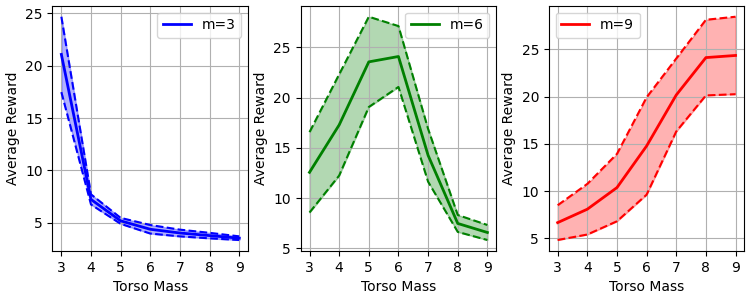
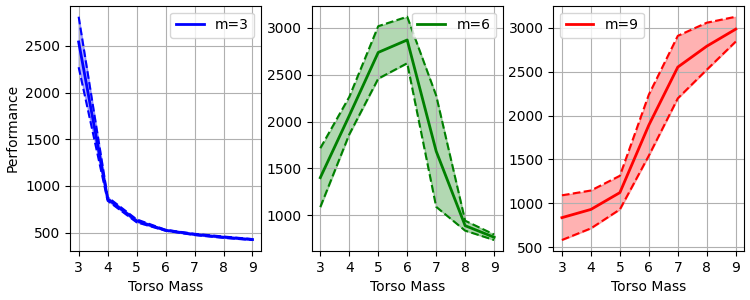
new plots p1

diff --git a/p1_test.py b/p1_test.py
@@ -2,14 +2,10 @@ import gymnasium as gym
 from stable_baselines3 import PPO
 import matplotlib.pyplot as plt
 import numpy as np
-import gymnasium as gym
-from stable_baselines3.common.vec_env import SubprocVecEnv, VecNormalize
+from stable_baselines3.common.vec_env import VecNormalize
 from stable_baselines3.common.env_util import make_vec_env
-from stable_baselines3 import PPO
+from stable_baselines3.common.evaluation import evaluate_policy
 from scipy.stats import sem
-from stable_baselines3.common.logger import configure
-from typing import Callable
-import torch
 
 # Define seeds and masses used for training and testing
 seeds = [1, 2, 3, 4, 5]
@@ -30,17 +26,8 @@ class ChangeMassWrapper(gym.Wrapper):
         self.update_mass()
 
 def evaluate_model(model, env, num_episodes=10):
-    rewards = []
-    for _ in range(num_episodes):
-        obs = env.reset()
-        done = False
-        total_reward = 0
-        while not done:
-            action, _states = model.predict(obs, deterministic=True)
-            obs, reward, done, info = env.step(action)
-            total_reward += reward
-        rewards.append(total_reward)
-    return np.mean(rewards)
+    mean_reward, std_reward = evaluate_policy(model, env, n_eval_episodes=num_episodes, return_episode_rewards=False)
+    return mean_reward, std_reward
 
 def test_models(seeds, masses, test_masses):
     results = {}
@@ -56,9 +43,9 @@ def test_models(seeds, masses, test_masses):
             model_results = []
             for test_mass in test_masses:
                 env.env_method("set_mass", test_mass)
-                avg_reward = evaluate_model(model, env)
-                model_results.append(avg_reward)
-                print(f"Seed {seed}, Train Mass {mass}, Test Mass {test_mass}: Avg Reward = {avg_reward}")
+                mean_reward, std_reward = evaluate_model(model, env)
+                model_results.append((mean_reward, std_reward))
+                print(f"Seed {seed}, Train Mass {mass}, Test Mass {test_mass}: Mean Reward = {mean_reward}, Std Reward = {std_reward}")
 
             results[(seed, mass)] = model_results
 
@@ -67,7 +54,7 @@ def test_models(seeds, masses, test_masses):
 # Test the models
 results = test_models(seeds, training_masses, test_masses)
 
-# save the results
+# Save the results
 np.save("ppo_hopper_results.npy", results)
 
 def plot_results(results, test_masses, training_masses):
@@ -88,14 +75,15 @@ def plot_results(results, test_masses, training_masses):
         
         # Calculate mean and confidence interval for each test mass
         for test_mass in test_masses:
-            all_rewards = [rewards[test_masses.index(test_mass)] for _, rewards in mass_results.items()]
+            all_rewards = [rewards[test_masses.index(test_mass)][0] for _, rewards in mass_results.items()]
+            all_stds = [rewards[test_masses.index(test_mass)][1] for _, rewards in mass_results.items()]
             mean_rewards = np.mean(all_rewards)
-            error = sem(all_rewards)
+            mean_std = np.mean(all_stds)
             
             # Collect the data
             mean_values.append(mean_rewards)
-            upper_bounds.append(mean_rewards + error)
-            lower_bounds.append(mean_rewards - error)
+            upper_bounds.append(mean_rewards + mean_std)
+            lower_bounds.append(mean_rewards - mean_std)
         
         # Plotting the mean, upper, and lower bounds
         test_mass_indices = np.arange(len(test_masses))
@@ -109,7 +97,11 @@ def plot_results(results, test_masses, training_masses):
         ax.set_xticks(test_mass_indices)
         ax.set_xticklabels(test_masses)
         ax.set_xlabel('Torso Mass')
-        ax.set_ylabel('Average Reward')
+        
+        # Only set the y-label on the first subplot
+        if ax == axes[0]:
+            ax.set_ylabel('Performance')
+        
         ax.grid(True)
         
         # Add legend to each subplot with custom positions
